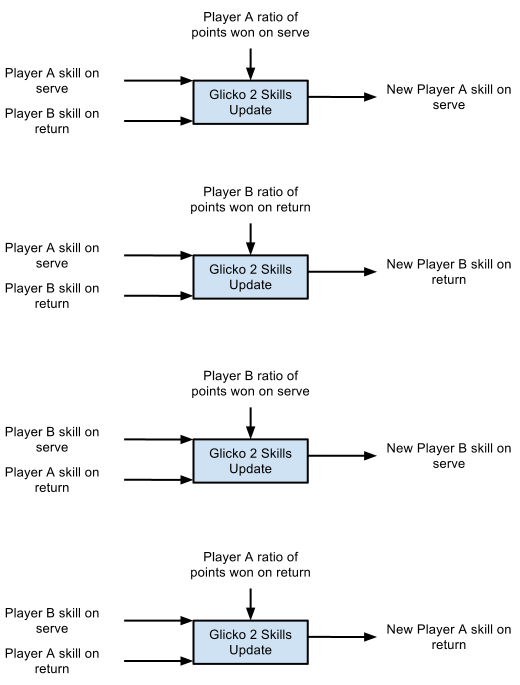
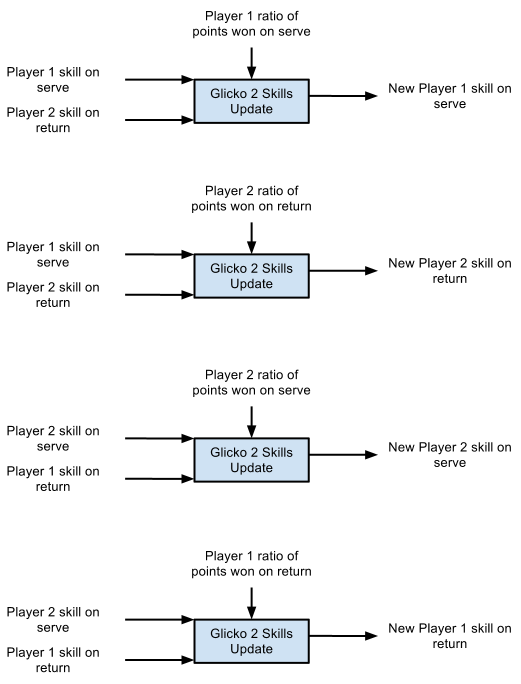
Documentation on Glicko 2 Tennis model.

diff --git a/doc/glicko2_tennis_skills/glicko2_tennis_skills.md b/doc/glicko2_tennis_skills/glicko2_tennis_skills.md
@@ -2,7 +2,6 @@ Modelling tennis skills on serve and return with Glicko 2 pairwise comparison mo
 ===========================================================================
 
 This document presents the Glicko 2 [1](#references) pairwise comparison method for estimating skills of tennis players both on serve and return.
-
 It starts with review of existing literature on modelling tennis skills. Next, it gives an overview on Glicko2 Tennis model, followed by an example of Scala code for calculating skills of tennis players. 
 Later on, it demonstrates three examples of practical applications for tennis skills. The first one, is a study on historical skills of Roger Federer and Novak Djokovic. 
 The second case, is about calculating probability of winning a point on serve and return at the beginning of a match by a tennis player. The last example, 
@@ -25,13 +24,13 @@ using skills on serve and return [2](#references):
 	S_r -  Average skill on return. It is a ratio of points won on return by all tennis players.
 
 This formula works reasonably well, assuming all players played against most of other players, like if they played in a league. However, in tennis, more can be learned about
-players by following intermediate connections between them. For example, look at the following temporal sequence of tennis matches:
+players by following transitive connections between them. For example, consider the following temporal sequence of tennis matches:
 
 	Time T1: Player 1 wins against player 2
 	Time T2: Player 2 wins against player 3
  
-Look at the transitive connections between Player 1,2 and 3, we might reason that Player 1 has a good chance of winning against Player 3.
-One technique that works particularly  well in a such environment is known as pairwise-comparison [4](#references).
+Looking at the transitive connections between players 1,2 and 3, we might reason that player 1 has a good chance of winning against player 3.
+One technique that works particularly  well in a such environment is known as pairwise comparison [4](#references).
 
 Pairwise comparison models are well established in games, such as chess or multi-team computer online games, but they are not so popular in modelling skills of tennis players.
 Mark E. Glickman in his paper 'Parameter estimation in large dynamic paired comparison experiments' [5] (#references) analysed tennis players with pairwise comparison model, but he didn't
@@ -39,8 +38,8 @@ attempt to model separately skills on serve and return.
 
 The most known pair comparison models include:
 
-* Elo  - Designed for Chess game [5](#references)
-* Glicko and Glicko 2 - Designed for Chess game [1](#references)
+* Elo  - Designed for Chess [5](#references)
+* Glicko and Glicko 2 - Designed for Chess [1](#references)
 * TrueSkill - Designed for multi-team computer online games [6](#references)
 
 For more details about literature on modelling tennis matches, read this article (section Tennis Prediction Model):
@@ -51,12 +50,12 @@ Overview of Glicko 2 Tennis Model
 
 Tennis skills are estimated from a temporal sequence of tennis match statistics. A single tennis match includes the following information:
 
-* Unique id of player A
-* Unique id of player B
-* Total number of service points played by player A
-* Total number of service points won by player A
-* Total number of service points played by player B
-* Total number of service points won by player B
+* Unique id of player 1
+* Unique id of player 2
+* Total number of service points played by player 1
+* Total number of service points won by player 1
+* Total number of service points played by player 2
+* Total number of service points won by player 2
 * Date and time of a tennis match
 
 Tennis skill is characterised by 4 variables:
@@ -71,11 +70,11 @@ for both players at the beginning of the match and calculates new skills at the 
 
 ![Tennis Glicko 2](https://raw.github.com/danielkorzekwa/tennis-player-compare/master/doc/glicko2_tennis_skills/tennis-glicko2.png "Tennis Glicko 2")
 
-The following picture illustrates calculation details for all tennis skills: Player A skill on serve, Player B skill on serve, Player A skill on return and Player B skill on return.
+The following picture illustrates calculation details for all tennis skills: Skills on serve and return for players 1 and 2.
 
 ![Tennis Glicko 2 - Details](https://raw.github.com/danielkorzekwa/tennis-player-compare/master/doc/glicko2_tennis_skills/tennis-glicko2-details.png "Tennis Glicko 2 - Details")
 
-Scala code example - Calculate new value of skill on serve for a tennis player
+Scala code example - Calculate new value of skill on serve
 ---------------------------------------------------
 
 This example presents an update of player skill on serve. ([source code](https://github.com/danielkorzekwa/tennis-player-compare/blob/master/src/test/scala/dk/tennis/compare/glicko2/Glicko2SingleUpdateTest.scala)).
@@ -102,7 +101,7 @@ Analysis of skills for Roger Federer and Novak Djokovic since 2006 till 2011
 Roger Federer generally performs better on serve than Novak Djokovic over the period of time since 2006 till 2011. He also presents consistent performance on return over those 5 years.
 On the other side, Novak Djokovic continuously improves his skills on return, which, in a consequence lifts him up to the first place in the ATP ranking in the middle of 2011. 
 Moreover, thanks to mastering his skills on return, he won all but one tennis matches against Roger Federer during the year 2011. 
-At the end of year 2011, Novak Djokovic possessed the best tennis skills on return out of all tennis players.
+At the end of the year 2011, Novak Djokovic possessed the best tennis skills on return out of all tennis players.
 
 ![History of skills for Federer and Djokovic](https://raw.github.com/danielkorzekwa/tennis-player-compare/master/doc/glicko2_tennis_skills/federer_djokovic_skills_history.png "History of skills for Federer and Djokovic")
 
@@ -112,9 +111,9 @@ Modelling probability of winning a point on serve and return at the beginning of
 Probability of winning a tennis point is modelled with a Logit function [4](#references), which is learned using Logistic Regression [5](#references) with the following predictor and target variables:
 
 * Predictor variables: Skills of tennis players at the beginning of a tennis match
-* Target variable: Ratio of points won serve by player A against player B during a match
+* Target variable: Ratio of points won on serve by player A against player B during a match
 
-To calculate probability of winning a point on return by player A against player B, we simply use `1 - probability of winning a point on serve by player B against player A.`
+To calculate probability of winning a point on return by player 1 against player 2, we simply use `1 - probability of winning a point on serve by player 1 against player 2.`
 
 It should be noted, that we might use other predictor features than just tennis skills to improve the accuracy of prediction model, 
 for example, weather conditions, indoor/outdoor or player's endurance.
@@ -122,10 +121,10 @@ Nevertheless, predicting the winner of tennis point, just from tennis skills, gi
 
 ![Correlation Point Probability](https://raw.github.com/danielkorzekwa/tennis-player-compare/master/doc/glicko2_tennis_skills/correlation_point_probability.png "Correlation Point Probability")
 
-Predicting outcome of tennis match using Glicko2 Tennis Skills and Hierarchical Markov Chain
+Predicting outcome of tennis match
 --------------------------------------------------------------------------------------------
 
-The probability of winning a tennis match by player A against player B is calculated with a hierachical markov chain [6,7](#references). 
+The probability of winning a tennis match by player 1 against player 2 is calculated with a hierachical markov chain [6,7](#references). 
 This model takes as inputs, the probabilities of winning a point on serve by both players and calculates probabilities of winning a game, set, tiebreak and match. 
 Tristan J. Barnett [6](#references) shows that markov chain allows for computing probability of winning a tennis match from an arbitrary starting position,
 given the probabilities of winning a point by both players are known at this stage.
@@ -133,32 +132,32 @@ given the probabilities of winning a point by both players are known at this sta
 The following example ([source code](https://github.com/danielkorzekwa/tennis-probability-calculator/blob/master/src/test/scala/dk/tennisprob/TennisProbFormulaCalcTest.scala)) 
 presents how to calculate game, set, tiebreak and match probabilities in Scala with the [Tennis Probability Ccalculator] (https://github.com/danielkorzekwa/tennis-probability-calculator) library
 
-	//Player A probability on serve = 0.7
-	//Player B probability on serve = 0.6
+	//Player 1 probability on serve = 0.7
+	//Player 2 probability on serve = 0.6
 	
-	//Game - Player A on serve
+	//Game - Player 1 on serve
 	assertEquals(0.9007, TennisProbFormulaCalc.gameProb(0.7), 0.0001)
-	//Game - Player B on serve
+	//Game - Player 2 on serve
 	assertEquals(0.7357, TennisProbFormulaCalc.gameProb(0.6), 0.0001)
 	
-	//Set - Player A on serve
+	//Set - Player 1 on serve
 	assertEquals(0.7948, TennisProbFormulaCalc.setProb(0.7, 0.4), 0.0001)
-	//Set - Player B on serve
+	//Set - Player 2 on serve
 	assertEquals(0.2051, TennisProbFormulaCalc.setProb(0.6, 0.3), 0.0001)
 	
-	//Tie break - Player A on serve
+	//Tie break - Player 1 on serve
 	assertEquals(0.66297, TennisProbFormulaCalc.tiebreakProb(0.7, 0.4), 0.0001)
-	//Tie break - Player B on serve
+	//Tie break - Player 2 on serve
 	assertEquals(0.3370, TennisProbFormulaCalc.tiebreakProb(0.6, 0.3), 0.0001)
 	
-	//3 set match - Player A on serve
+	//3 set match - Player 1 on serve
 	assertEquals(0.8910, TennisProbFormulaCalc.matchProb(0.7, 0.4, THREE_SET_MATCH), 0.0001)
-	//3 set match - Player B on serve
+	//3 set match - Player 2 on serve
 	assertEquals(0.10898, TennisProbFormulaCalc.matchProb(0.6, 0.3, THREE_SET_MATCH), 0.0001)
 	
-	//5 set match - Player A on serve
+	//5 set match - Player 1 on serve
 	assertEquals(0.93805, TennisProbFormulaCalc.matchProb(0.7, 0.4, FIVE_SET_MATCH), 0.0001)
-	//5 set match - Player A on serve
+	//5 set match - Player 2 on serve
 	assertEquals(0.061948, TennisProbFormulaCalc.matchProb(0.6, 0.3, FIVE_SET_MATCH), 0.0001)
 	
 The picture below presents the accuracy of predicting outcomes of tennis matches, using hierarchical markov chain
@@ -177,16 +176,16 @@ However, there are some potential improvements that could be made, in order to i
 First, tennis matches are played at three major surfaces, HARD, GRASS and CLAY. Shall we create a single  model or maybe having a separate model for every surface is a better choice?. 
 Glicko2 Tennis model assumes that all tennis matches are played in the same conditions and the only thing that varies is the performance of tennis players in a match.
 
-Secondly, Glicko2 is an online model [13](#references). It maintains the current belief in tennis skills and updates them iteratively by processing results of tennis matches in a serial order. 
+Secondly, Glicko2 is an online model [13](#references). It maintains the current belief in tennis skills and updates it iteratively by processing results of tennis matches in a serial order. 
 To understand, why this could be an issue, look at the following example.
 
 	Time T1: Player 1 (skill=100) wins against player 2 (skill=150)
 	Time T2: Glicko 2 raises skill of player 1 up and lowers skill of player 2 
-	Time T3: Player 2 (skill  wins against player 3 (skill=200) 
+	Time T3: Player 2 (skill=140) wins against player 3 (skill=200) 
 	Time T4: Glicko2 raises skill for player 2 up and lowers skill of player 3.
 
-That fact, that skill for player 2 goes up at the time T3, should change our belief in his skill at the time T1, which in a consequence should impact the skill for player 1 after time T1.
-In the world of Hidden Markov Models this concept is known as smoothing [14](#references). The idea behind smoothing is that the more we learn about the future, the more we are certain about the past.
+That fact, that skill for player 2 goes up at the time T3, should change our belief in his skill at the time T1, which in a consequence should impact the skill for player 1 after the time T1.
+In the world of Hidden Markov Models this concept is known as smoothing [14](#references). The idea behind smoothing is that, the more we learn about the future, the more we are certain about the past.
 This technique was applied for modelling chess players by Pierre Dangauthier, Ralf Herbrich, Tom Minka, and Thore Graepel in their paper 'TrueSkill Through Time: Revisiting the History of Chess' [15](#references).
 Although, TrueSkill in general is an online learning model, it was shown that it could be adapted for smoothing historical player skills as well. 
 
